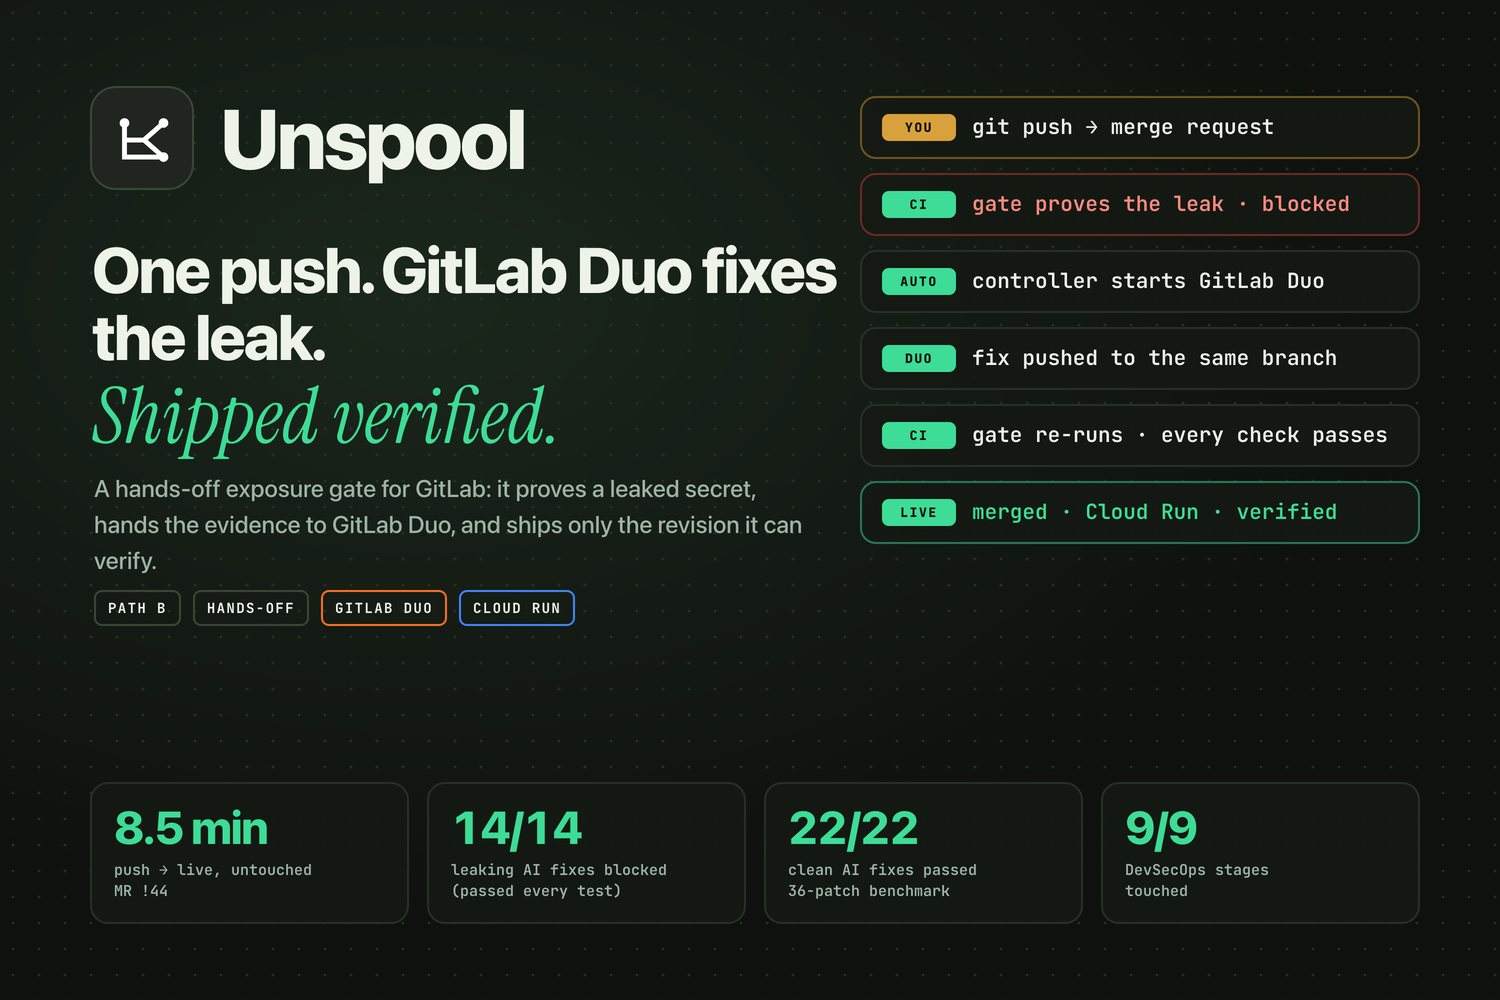
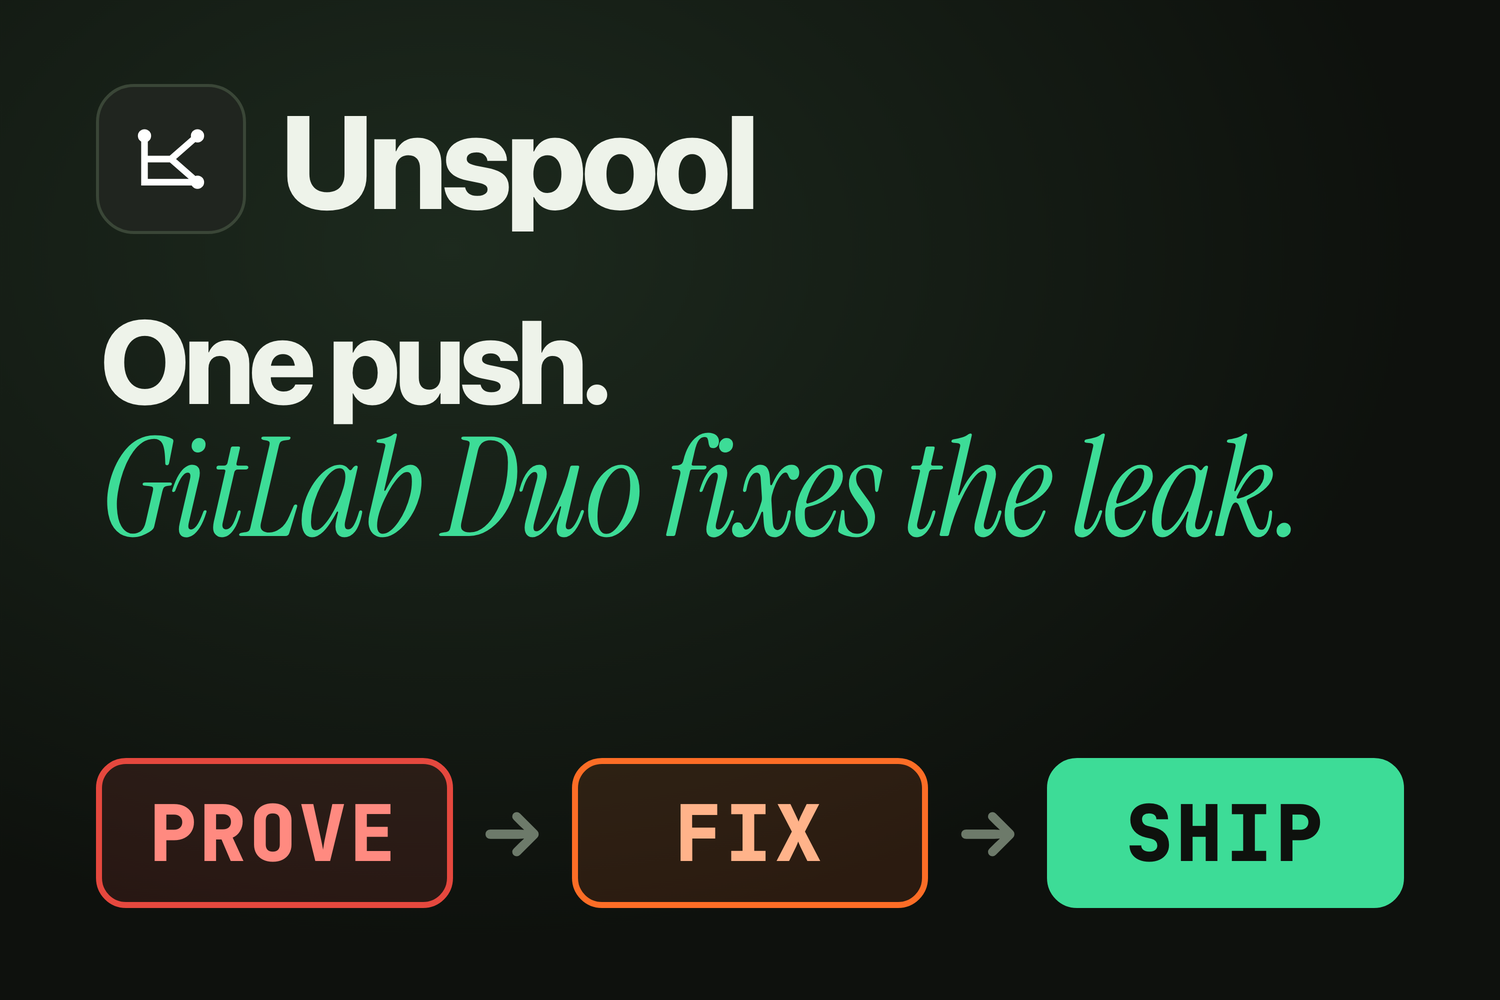
Redesign the Devpost preview for its small thumbnail

diff --git a/submission/assets/src/devpost-preview.html b/submission/assets/src/devpost-preview.html
@@ -2,59 +2,38 @@
 <html lang="en">
 <head>
 <meta charset="utf-8">
-<title>Unspool Devpost preview (3:2)</title>
+<title>Unspool Devpost preview (3:2, made for a small thumbnail)</title>
 <style>
 @font-face { font-family: "Instrument Serif"; src: url(FONTS/InstrumentSerif-Italic.ttf); font-style: italic; }
 @font-face { font-family: "JB"; src: url(FONTS/JetBrainsMono.ttf); font-weight: 100 900; }
-:root { --night: #0E110D; --ink: #EEF3EA; --thread: #28765A; --glow: #3DDC97; --leak: #E5483E; --amber: #D9A13B; --muted: #9fb3a5;
+:root { --night: #0E110D; --ink: #EEF3EA; --thread: #28765A; --glow: #3DDC97; --leak: #E5483E; --duo: #FC6D26;
   --sf: -apple-system, BlinkMacSystemFont, "SF Pro Display", system-ui, sans-serif; --mono: "JB", ui-monospace, monospace; }
 * { box-sizing: border-box; margin: 0; }
 html, body { width: 1500px; height: 1000px; overflow: hidden; }
-body { position: relative; background: radial-gradient(ellipse at 28% 30%, #1b271c 0%, var(--night) 64%); color: var(--ink); font-family: var(--sf); -webkit-font-smoothing: antialiased; }
-.grid { position: absolute; inset: 0; background-image: radial-gradient(#2a3529 1.3px, transparent 1.4px); background-size: 26px 26px; opacity: .8; }
-.lockup { position: absolute; left: 90px; top: 86px; display: flex; align-items: center; gap: 26px; }
-.tile { width: 104px; height: 104px; border-radius: 26px; background: #20251f; border: 2px solid #3a4637; padding: 13px; }
-.word { font: 800 84px/1 var(--sf); letter-spacing: -.035em; }
-.head { position: absolute; left: 92px; top: 236px; width: 760px; font: 800 64px/1.05 var(--sf); letter-spacing: -.035em; }
-.head em { display: block; font: italic 400 78px/1.05 "Instrument Serif", serif; color: var(--glow); letter-spacing: 0; margin-top: 6px; }
-.sub { position: absolute; left: 94px; top: 470px; width: 720px; font: 500 24px/1.5 var(--sf); color: var(--muted); }
-.flow { position: absolute; right: 80px; top: 96px; width: 560px; display: flex; flex-direction: column; gap: 14px; }
-.step { display: flex; align-items: center; gap: 16px; padding: 16px 20px; border-radius: 16px; background: rgba(20,26,19,.9); border: 2px solid #263026; font: 600 21px/1.25 var(--mono); }
-.step b { flex: none; width: 74px; text-align: center; font: 800 13px var(--mono); letter-spacing: .12em; padding: 5px 0; border-radius: 7px; color: var(--night); background: var(--glow); }
-.step.you { border-color: #6b5420; } .step.you b { background: var(--amber); }
-.step.leak { border-color: #6a2a25; } .step.leak span { color: #ff8a80; }
-.step.live { border-color: var(--thread); } .step.live span { color: var(--glow); }
-.stats { position: absolute; left: 90px; right: 80px; bottom: 76px; display: grid; grid-template-columns: repeat(4, 1fr); gap: 18px; }
-.stat { border-radius: 18px; background: rgba(20,26,19,.9); border: 2px solid #263026; padding: 20px 22px; }
-.stat .n { font: 800 46px/1 var(--sf); letter-spacing: -.03em; color: var(--glow); font-variant-numeric: tabular-nums; }
-.stat .l { font: 600 15px/1.4 var(--mono); color: var(--muted); margin-top: 10px; }
-.tags { position: absolute; left: 94px; top: 590px; display: flex; gap: 12px; }
-.tags span { font: 700 14px var(--mono); letter-spacing: .1em; padding: 7px 12px; border-radius: 8px; border: 2px solid #3a4637; color: var(--ink); }
-.tags span.g { border-color: #FC6D26; } .tags span.c { border-color: #4285F4; }
+body { position: relative; background: radial-gradient(ellipse at 30% 25%, #1d2a1e 0%, var(--night) 66%); color: var(--ink); font-family: var(--sf); -webkit-font-smoothing: antialiased; }
+.lockup { position: absolute; left: 96px; top: 84px; display: flex; align-items: center; gap: 34px; }
+.tile { width: 150px; height: 150px; border-radius: 38px; background: #20251f; border: 3px solid #3a4637; padding: 19px; }
+.word { font: 800 132px/1 var(--sf); letter-spacing: -.04em; }
+.head { position: absolute; left: 100px; top: 300px; font: 800 118px/1.02 var(--sf); letter-spacing: -.045em; }
+.head em { display: block; font: italic 400 138px/1 "Instrument Serif", serif; color: var(--glow); letter-spacing: -.01em; }
+.steps { position: absolute; left: 96px; right: 96px; bottom: 92px; display: flex; align-items: center; gap: 26px; }
+.step { flex: 1; height: 150px; border-radius: 30px; display: flex; align-items: center; justify-content: center; font: 800 78px/1 var(--mono); letter-spacing: .04em; border: 6px solid; }
+.prove { color: #ff8a80; border-color: var(--leak); background: rgba(229,72,62,.12); }
+.fix { color: #ffb38a; border-color: var(--duo); background: rgba(252,109,38,.12); }
+.ship { color: var(--night); border-color: var(--glow); background: var(--glow); }
+.arrow { flex: none; font: 800 70px/1 var(--sf); color: #6d7a6a; }
 </style>
 </head>
 <body>
-<div class="grid"></div>
 <div class="lockup">
-  <div class="tile"><svg viewBox="0 0 32 32" width="78" height="78" style="display:block;fill:#fff"><path d="M8 9v14h16M8 16h8l8-7M16 16l8 7" fill="none" stroke="#fff" stroke-width="2"/><circle cx="8" cy="9" r="2"/><circle cx="24" cy="9" r="2"/><circle cx="24" cy="23" r="2"/></svg></div>
+  <div class="tile"><svg viewBox="0 0 32 32" width="106" height="106" style="display:block;fill:#fff"><path d="M8 9v14h16M8 16h8l8-7M16 16l8 7" fill="none" stroke="#fff" stroke-width="2"/><circle cx="8" cy="9" r="2"/><circle cx="24" cy="9" r="2"/><circle cx="24" cy="23" r="2"/></svg></div>
   <div class="word">Unspool</div>
 </div>
-<div class="head">One push. GitLab Duo fixes the leak. <em>Shipped verified.</em></div>
-<div class="sub">A hands-off exposure gate for GitLab: it proves a leaked secret, hands the evidence to GitLab Duo, and ships only the revision it can verify.</div>
-<div class="tags"><span>PATH B</span><span>HANDS-OFF</span><span class="g">GITLAB DUO</span><span class="c">CLOUD RUN</span></div>
-<div class="flow">
-  <div class="step you"><b>YOU</b><span>git push → merge request</span></div>
-  <div class="step leak"><b>CI</b><span>gate proves the leak · blocked</span></div>
-  <div class="step"><b>AUTO</b><span>controller starts GitLab Duo</span></div>
-  <div class="step"><b>DUO</b><span>fix pushed to the same branch</span></div>
-  <div class="step"><b>CI</b><span>gate re-runs · every check passes</span></div>
-  <div class="step live"><b>LIVE</b><span>merged · Cloud Run · verified</span></div>
-</div>
-<div class="stats">
-  <div class="stat"><div class="n">8.5 min</div><div class="l">push → live, untouched<br>MR !44</div></div>
-  <div class="stat"><div class="n">14/14</div><div class="l">leaking AI fixes blocked<br>(passed every test)</div></div>
-  <div class="stat"><div class="n">22/22</div><div class="l">clean AI fixes passed<br>36-patch benchmark</div></div>
-  <div class="stat"><div class="n">9/9</div><div class="l">DevSecOps stages<br>touched</div></div>
+<div class="head">One push.<em>GitLab Duo fixes the leak.</em></div>
+<div class="steps">
+  <div class="step prove">PROVE</div><div class="arrow">→</div>
+  <div class="step fix">FIX</div><div class="arrow">→</div>
+  <div class="step ship">SHIP</div>
 </div>
 </body>
 </html>
